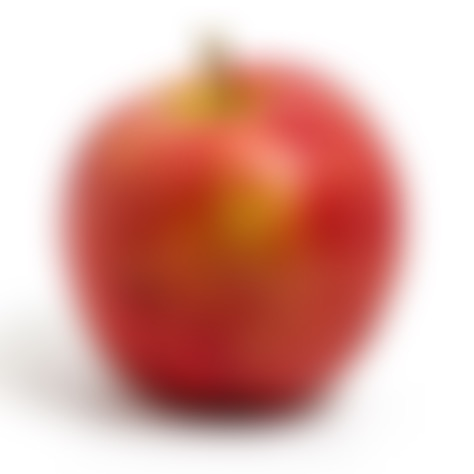
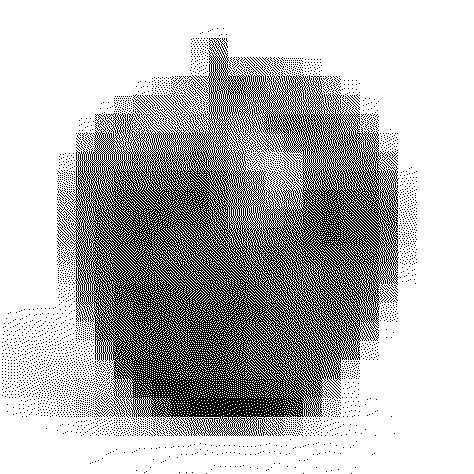
run pixelate with apple.jpg

diff --git a/web/imagePixelation.py b/web/imagePixelation.py
@@ -55,5 +55,5 @@ def saveImages(object_name, image_path_or_url):
 
 # Uncomment to test
 # saveImages('nature', 'https://images.pexels.com/photos/1866149/pexels-photo-1866149.jpeg')
-# saveImages('apple', 'web/static/imgs/apple.jpg')
+saveImages('apple', 'web/static/imgs/apple.jpg')
 # saveImages('acm-logo', 'web/static/imgs/acm-logo.jpg')
